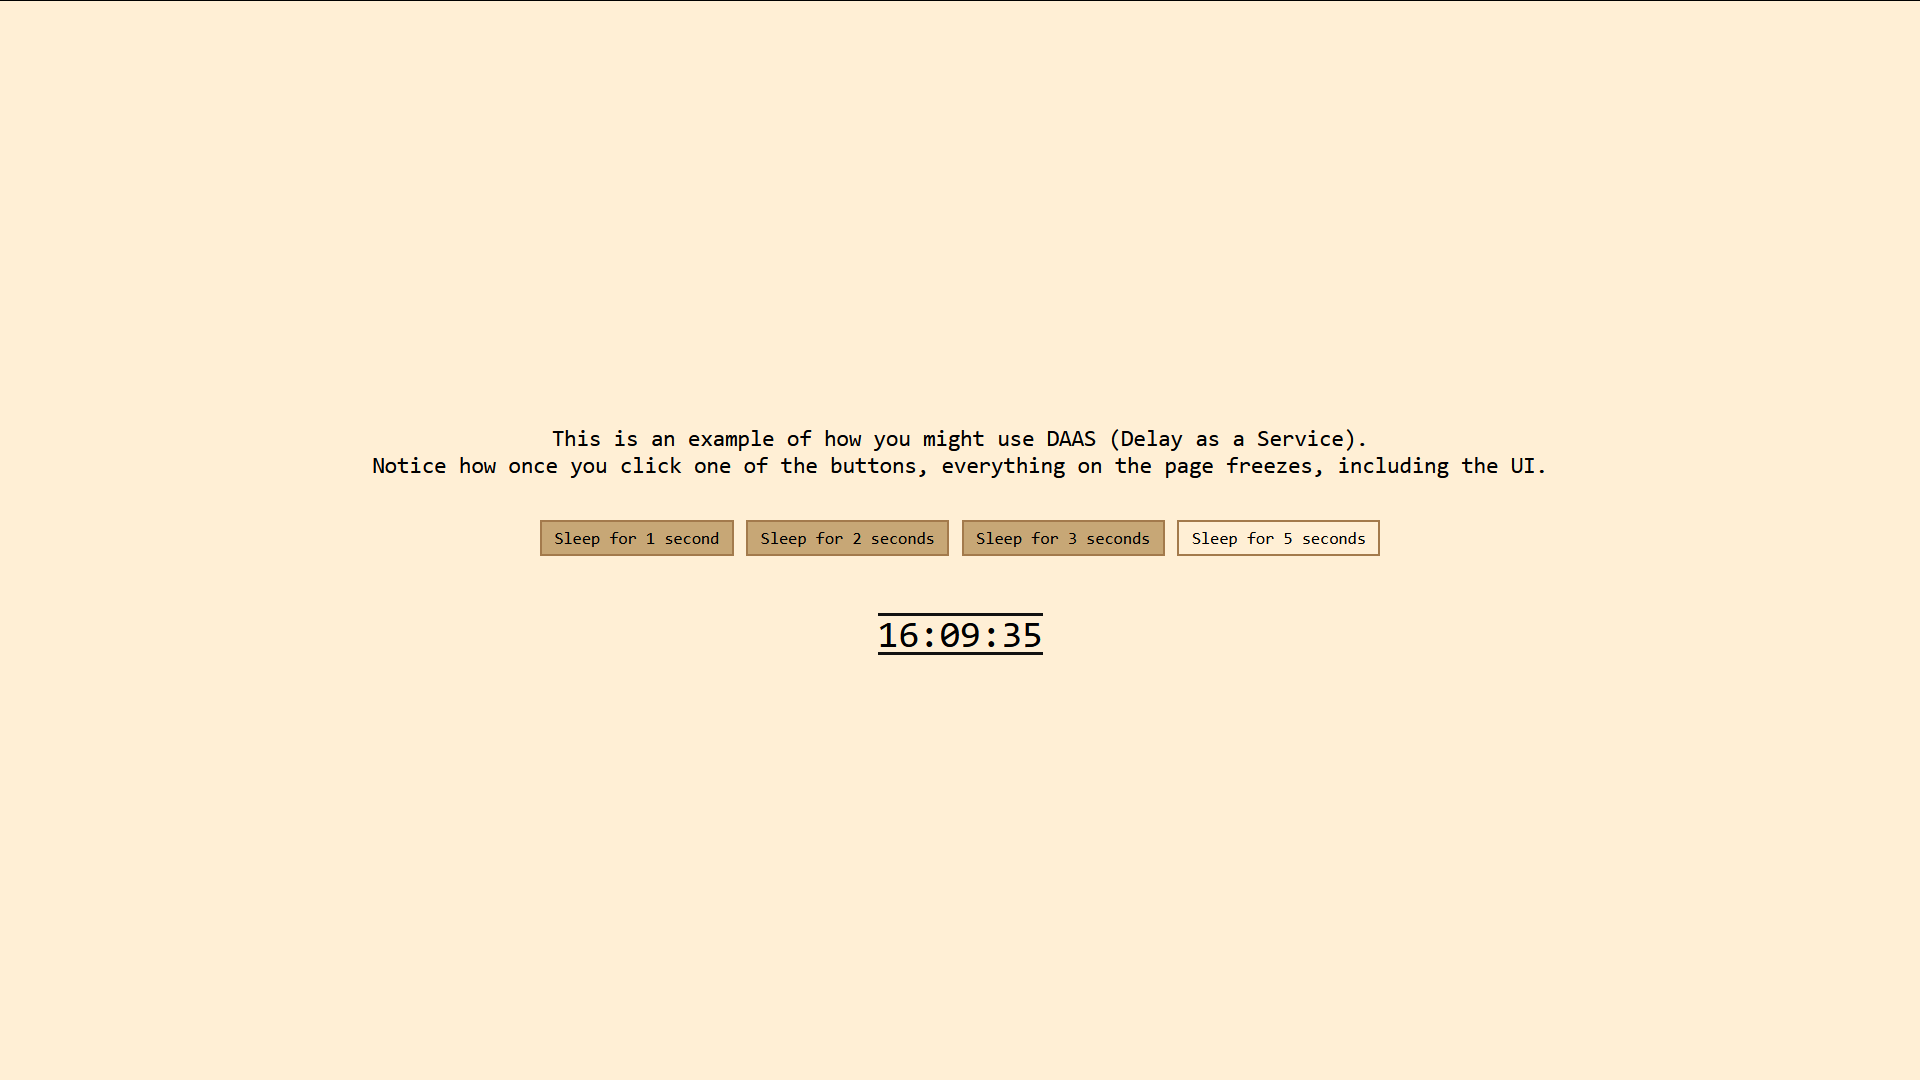
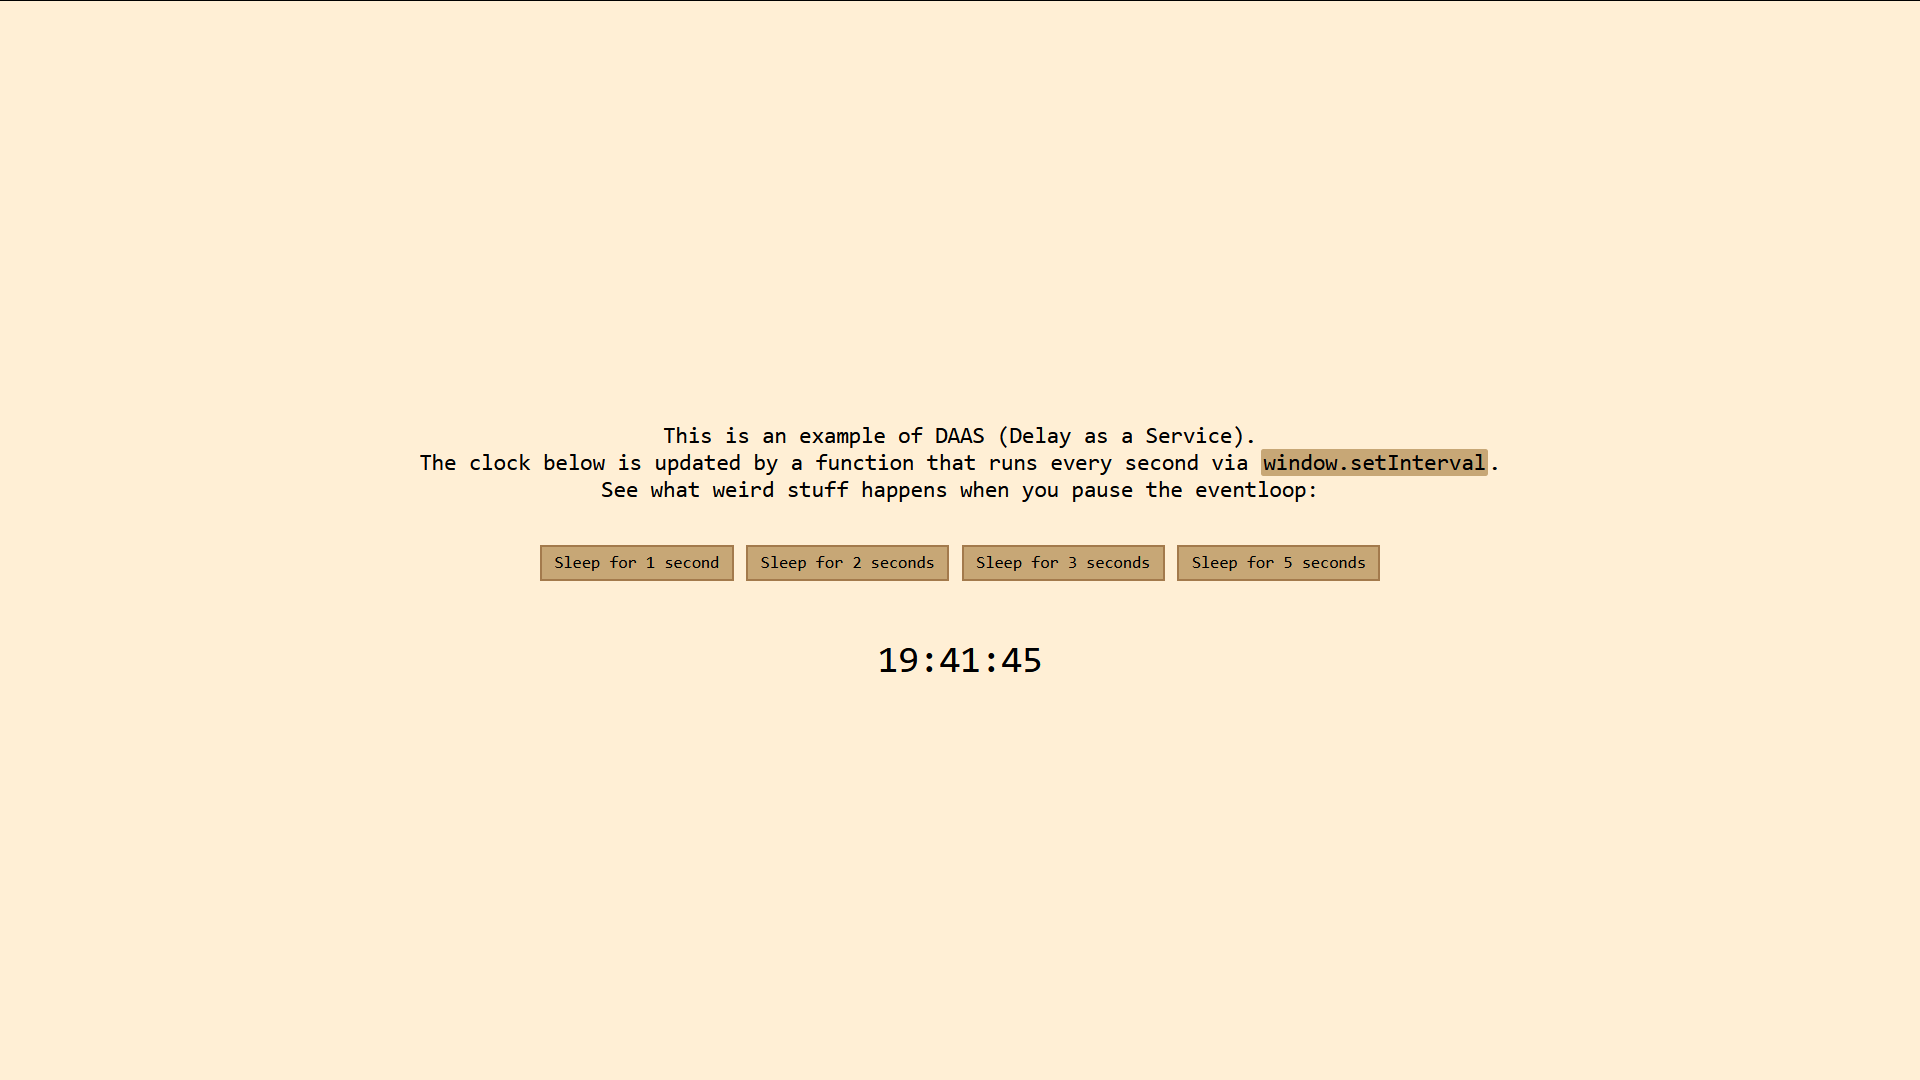
It's good enough...
Ohhh my god the backtick color seems to throw the webpage centering
off balance for some reason. It must be a trick of the eye.
aaaaaa...

Changed region(s): [[0.1875, 0.3972, 0.7812, 0.6417]]

diff --git a/example/style.css b/example/style.css
@@ -19,6 +19,12 @@ p {
    text-align: center;
 }
 
+.backtick {
+   background-color: #c7a776;
+   border-radius: 2px;
+   padding: 0 2px;
+}
+
 #buttongroup {
    margin-top: 1%;
    margin-bottom: 3%;
@@ -27,8 +33,8 @@ p {
 button {
    cursor: pointer;
    padding: 5px 10px;
-   border: 2px solid rgb(163, 122, 76);
-   background-color: rgb(199, 167, 118);
+   border: 2px solid #a37a4c;
+   background-color: #c7a776;
    font-family: inherit;
 }
 
@@ -38,9 +44,13 @@ button:hover {
 
 #time {
    font-size: 30px;
-   transition: all;
+}
+
+@keyframes time-paused {
+   from { text-decoration: underline overline transparent; }
+   to { text-decoration: underline overline black; }
 }
 
 .paused {
-   text-decoration: underline overline #111;
+   animation: time-paused .5s alternate infinite;
 }

diff --git a/example/index.html b/example/index.html
@@ -5,12 +5,16 @@
       <script src="../lib/client.js"></script>
    </head>
    <body>
-      <p>
-         This is an example of how you might use DAAS (Delay as a Service).
-         <br>
-         Notice how once you click one of the buttons, everything on the page
-         freezes, including the UI.
-      </p>
+      <div>
+         <p>
+            This is an example of DAAS (Delay as a Service).
+            <br>
+            The clock below is updated by a function that runs every second via
+            <span class="backtick">window.setInterval</span>.
+            <br>
+            See what weird stuff happens when you pause the eventloop:
+         </p>
+      </div>
       <div id="buttongroup">
          <button id="sleep1"></button>
          <button id="sleep2"></button>

diff --git a/lib/server.js b/lib/server.js
@@ -10,14 +10,17 @@ app.get("/", (req, res) => {
    res.redirect('/index.html');
 });
 
+const STATUS_OK = 200;
+const STATUS_ACCEPTED = 202;
+
 app.get("/query", (req, res) => {
    const networkLatency = Date.now() - req.query.time;
    const roundtripLatency = networkLatency * 2;
    const waitTime = req.query.ms - roundtripLatency;
-   if (waitTime < 2) {
-      res.sendStatus(202);
+   if (waitTime < 1) {
+      res.sendStatus(STATUS_ACCEPTED);
    } else {
-      setTimeout(() => { res.sendStatus(200); }, waitTime);
+      setTimeout(() => { res.sendStatus(STATUS_OK); }, waitTime);
    }
 });
 

diff --git a/lib/client.js b/lib/client.js
@@ -1,3 +1,5 @@
+const STATUS_OK = 200;
+
 /**
  * Pauses the JavaScript event loop by sending a synchronous network request.
  * @param {number} ms
@@ -12,9 +14,5 @@ function sleep(ms) {
 
    request.send(null);
 
-   if (request.status === 200) {
-      return true;
-   } else {
-      return false;
-   }
+   return request.status === STATUS_OK;
 }

diff --git a/README.md b/README.md
@@ -10,8 +10,6 @@ server of some sorts. Theoretically, the server could be implemented using a
 service worker so that latency is no longer an issue.
 I'll leave that up to someone else to implement.
 
-If you'd like to try the example out (why?):
-   - Clone this repo
-   - `npm start`
-   - Go to `localhost/example`
-   - Feel pain
+### Check out the example webpage:
+
+[![Click me, I'm a link!](example/example.png "The example DAAS webpage")](example)

diff --git a/example/README.md b/example/README.md
@@ -1,3 +1,9 @@
 # DAAS Example
 
 ![](example.png "The example DAAS webpage")
+
+You have to host it yourself, though.
+
+- Clone this repo
+- `$ npm start`
+- Go to [http://localhost/example](http://localhost/example)
